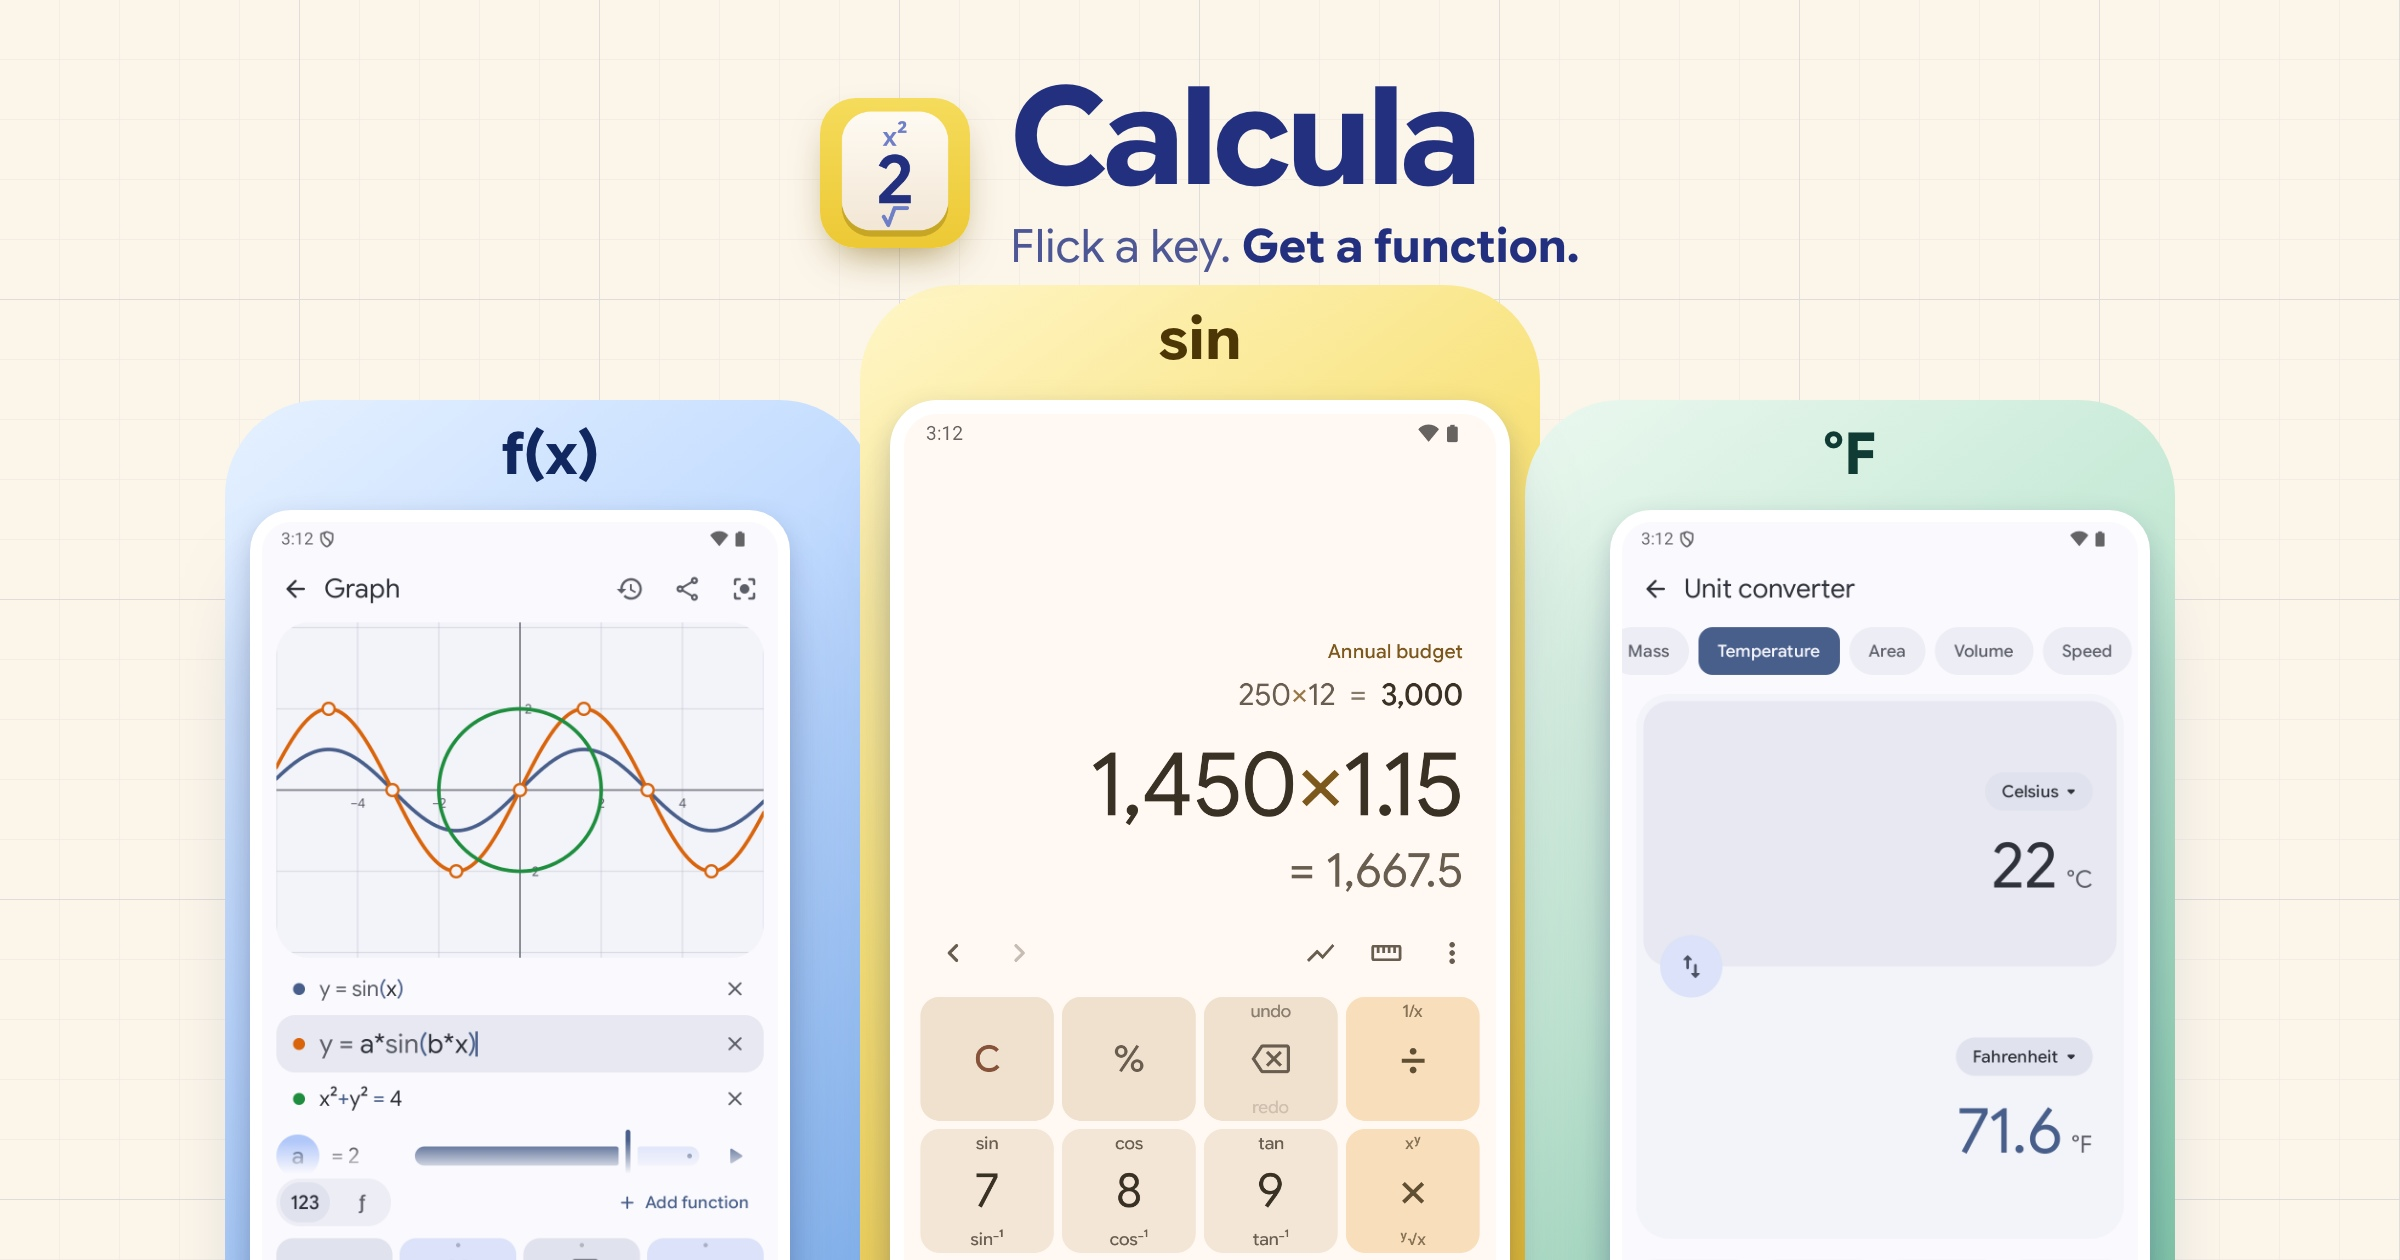
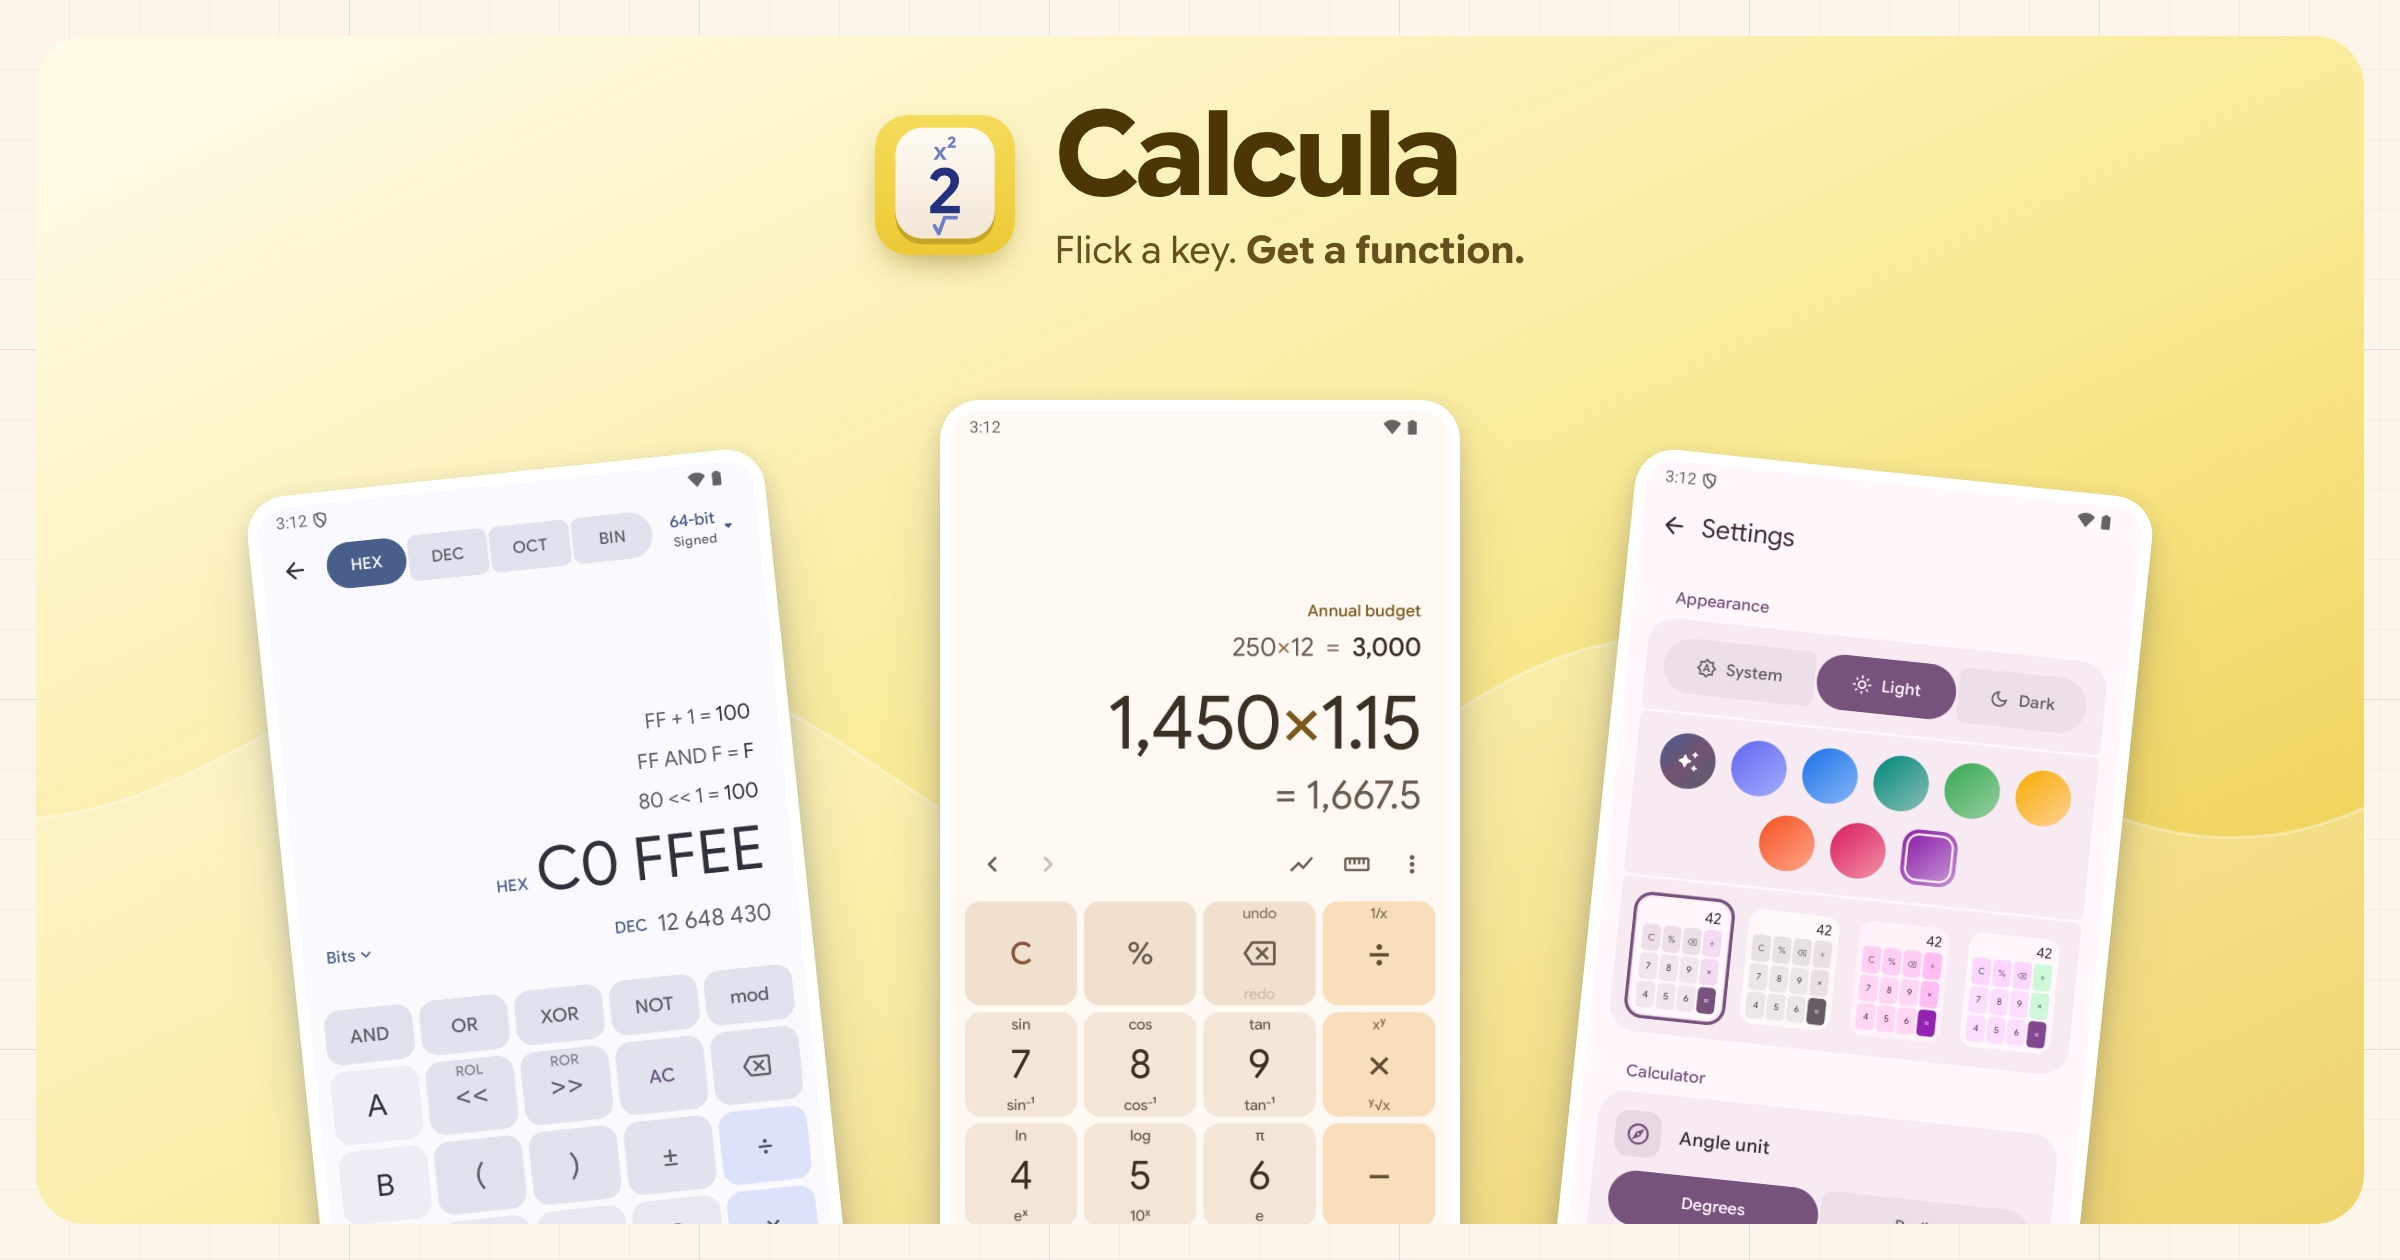
README header in the README cards' style: programmer mode, the keypad and themes on Calcula's yellow panel

diff --git a/store-listing/theme.js b/store-listing/theme.js
@@ -31,23 +31,6 @@ export default {
 
   // Paper: a faint graph-paper grid in panorama coordinates, so the cards still join when shown together.
   art({W, H, index, slide}) {
-    if (slide.identity) {
-      // The README header: Calcula's paper and grid, and each phone standing on a key in its README panel's colour,
-      // the function it gives written on the cap: f(x) on blue over the graph, sin on yellow over the keypad,
-      // °F on green over the converter.
-      const cell = 60, major = cell * 5;
-      const caps = [['f(x)', 225, 400, 650, 'blue', '#10275f'], ['sin', 860, 285, 680, 'yellow', '#4d3606'], ['°F', 1525, 400, 650, 'green', '#103b34']]
-        .map(([label, x, y, w, tone, ink]) =>
-          `<rect x="${x}" y="${y + 18}" width="${w}" height="${H}" rx="96" fill="${ink}" opacity=".16"/>` +
-          `<rect x="${x}" y="${y}" width="${w}" height="${H}" rx="96" fill="url(#${tone})"/>` +
-          `<text x="${x + w / 2}" y="${y + 74}" font-size="58" font-family="Calcula" font-weight="700" fill="${ink}" text-anchor="middle">${label}</text>`).join('');
-      return `<defs><linearGradient id="blue" x1="0" y1="0" x2=".4" y2="1"><stop offset="0" stop-color="#e6f1ff"/><stop offset=".45" stop-color="#bcd8ff"/><stop offset="1" stop-color="#7fb0ec"/></linearGradient>` +
-        `<linearGradient id="yellow" x1="0" y1="0" x2=".4" y2="1"><stop offset="0" stop-color="#fff6c8"/><stop offset=".45" stop-color="#f8e27a"/><stop offset="1" stop-color="#e9bf35"/></linearGradient>` +
-        `<linearGradient id="green" x1="0" y1="0" x2=".4" y2="1"><stop offset="0" stop-color="#ebf8ef"/><stop offset=".45" stop-color="#c3e8d4"/><stop offset="1" stop-color="#7cc6a7"/></linearGradient>` +
-        `<pattern id="minor" width="${cell}" height="${cell}" patternUnits="userSpaceOnUse"><path d="M${cell} 0V${cell}H0" fill="none" stroke="#22307f" stroke-opacity=".05" stroke-width="1.5"/></pattern>` +
-        `<pattern id="major" width="${major}" height="${major}" patternUnits="userSpaceOnUse"><path d="M${major} 0V${major}H0" fill="none" stroke="#22307f" stroke-opacity=".09" stroke-width="2"/></pattern></defs>` +
-        `<rect width="${W}" height="${H}" fill="#fbf5ea"/><rect width="${W}" height="${H}" fill="url(#minor)"/><rect width="${W}" height="${H}" fill="url(#major)"/>${caps}`;
-    }
     const cell = Math.round(Math.min(W, H) / 18), major = cell * 5, x0 = -index * W, off = ((x0 % major) + major) % major;
     const gap = slide.layout === 'big-screen-feature'
       ? `<rect x="1180" width="40" height="${H}" fill="#FBF5EA"/><rect x="1180" width="40" height="${H}" fill="url(#gap-minor)"/><rect x="1180" width="40" height="${H}" fill="url(#gap-major)"/>`
@@ -78,7 +61,14 @@ export default {
       }
       return;
     }
-    if (slide.identity) return;
+    if (slide.identity) {
+      // The README header follows the README cards exactly: one inset panel in Calcula's yellow with the white wave,
+      // the name centred in the panel's ink, three real phones tilted and rising like the cards' phones.
+      main.insertAdjacentHTML('afterbegin', `<section class="hero-panel"><svg class="hero-wave" viewBox="0 0 2400 1260" aria-hidden="true"><path d="M0 820 C240 820 350 600 620 650 S980 940 1210 850 S1530 590 1760 650 S2140 935 2400 790 V1260 H0 Z"/></svg></section>`);
+      const panel = main.querySelector('.hero-panel');
+      for (const device of main.querySelectorAll('.device')) panel.append(device);
+      return;
+    }
     if (slide.layout === 'tools') {
       main.insertAdjacentHTML('beforeend', `<section class="tools-feature graph-feature"><div class="tools-title">Watch it<br>take shape.</div><div class="tools-caption">Plot anything. Drag a parameter.<br>See it move.</div></section><section class="tools-feature convert-feature"><div class="tools-title">From °C<br>to °F.</div><div class="tools-caption">Units, converted<br>as you type.</div></section><section class="tools-feature programmer-feature"><div class="tools-title">Hex,<br>sorted.</div><div class="tools-caption">Programmer mode with<br>bits, shifts and bases.</div></section>`);
       for (const name of ['graph', 'convert', 'programmer']) {

diff --git a/store-listing/theme.css b/store-listing/theme.css
@@ -122,12 +122,23 @@ header p{margin:26px 0 0;font-size:40px;line-height:1.24;letter-spacing:-.5px;wh
 .device-label.before span{font-size:40px;font-weight:400;letter-spacing:-.5px;color:#22307fa6}
 .device-label.after span{font-size:44px;font-weight:700;letter-spacing:-1.2px;color:var(--ink)}
 
-/* README header: the name over Calcula's yellow, with y = sin(x) plotted across the card behind three phones. */
-.readme .hero .identity{top:70px;color:#22307f}
-.readme .hero .identity img{width:150px;height:150px;border-radius:24%;box-shadow:0 18px 40px -16px #7a5a00aa}
-.readme .hero .identity span{font-size:136px;letter-spacing:-5px}
-.readme .hero .identity small{font-size:46px;font-weight:400;color:#22307fcc}
-.readme .hero .identity small em{font-weight:700;color:#22307f}
-.readme .hero .device{--bezel:14px;--radius:58px;background:#ffffff;box-shadow:0 10px 24px #17265730,0 60px 100px -40px #17265780}
-.readme .hero.named .left,.readme .hero.named .right{top:510px}
-.readme .hero.named .center{top:400px}
+/* README header: one panel like the README cards (inset, rounded, white wave), the name centred in its ink,
+   three phones tilted and rising the way the cards' phones do. */
+.readme .hero .hero-panel{position:absolute;left:36px;right:36px;top:36px;bottom:36px;overflow:hidden;border-radius:50px;z-index:1;background:var(--hero-bg,linear-gradient(155deg,#fffbe6 5%,#f9e98f 55%,#ebc63f))}
+.readme .hero .hero-wave{position:absolute;left:-36px;top:-36px;width:2400px;height:1260px}
+.readme .hero .hero-wave path{fill:#fff;fill-opacity:.24;stroke:#fff;stroke-opacity:.35;stroke-width:3}
+.readme .hero .identity{top:96px;color:var(--hero-ink,#4d3606)}
+.readme .hero .identity img{width:140px;height:140px;border-radius:24%;box-shadow:0 14px 34px -14px #7a5a00aa}
+.readme .hero .identity span{font-size:118px;letter-spacing:-4.5px}
+.readme .hero .identity small{font-size:38px;font-weight:400;color:var(--hero-ink,#4d3606);opacity:.86}
+.readme .hero .identity small em{font-weight:700}
+.readme .hero .device{background:#fff;box-shadow:0 8px 22px #17265730,0 45px 80px -30px #17265760}
+.readme .hero.named .left{left:264px;top:434px;width:520px;transform:rotate(-6deg)}
+.readme .hero.named .center{left:904px;top:364px;width:520px}
+.readme .hero.named .right{left:1544px;top:434px;width:520px;transform:rotate(6deg)}
+/* Variants: a landscape tablet behind two phones, or two phones as a pair. */
+.readme .hero.slate .center{left:420px;top:360px;width:1490px;transform:none;z-index:2}
+.readme .hero.slate .left{left:110px;top:560px;width:430px;transform:rotate(-6deg);z-index:4}
+.readme .hero.slate .right{left:1800px;top:560px;width:430px;transform:rotate(6deg);z-index:4}
+.readme .hero.duo .left{left:560px;top:380px;width:560px;transform:rotate(-6deg);z-index:3}
+.readme .hero.duo .right{left:1220px;top:430px;width:560px;transform:rotate(6deg);z-index:2}
